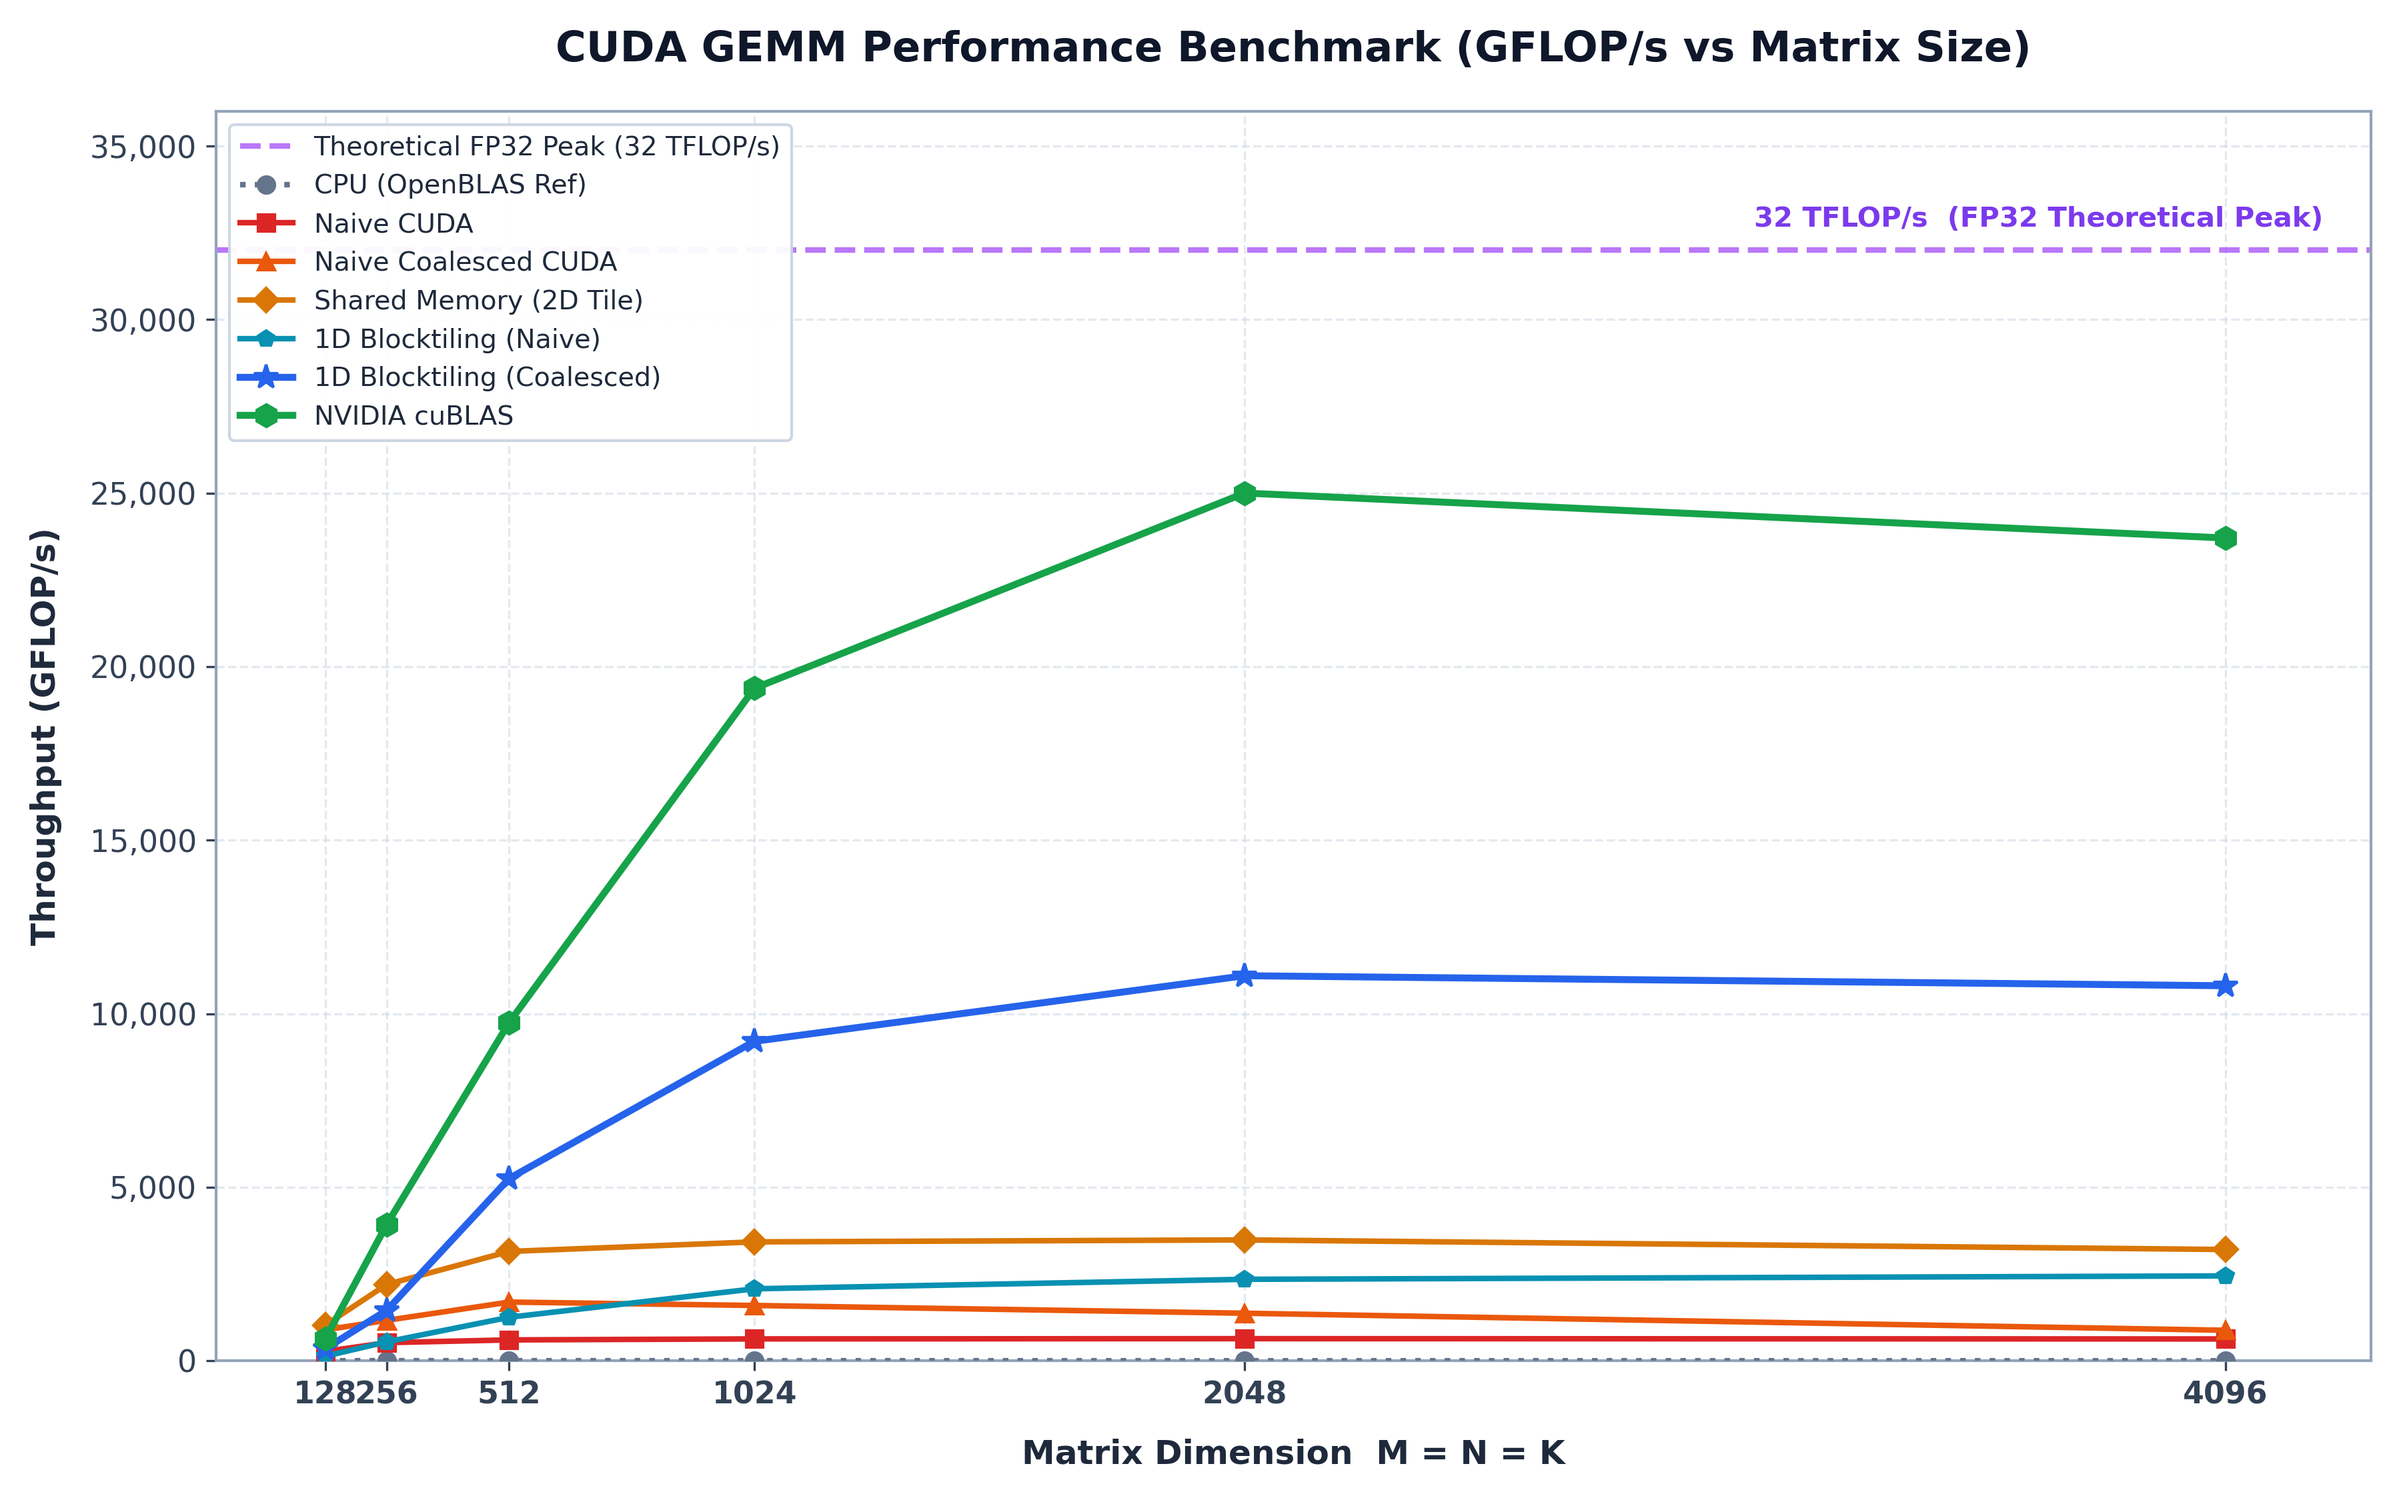
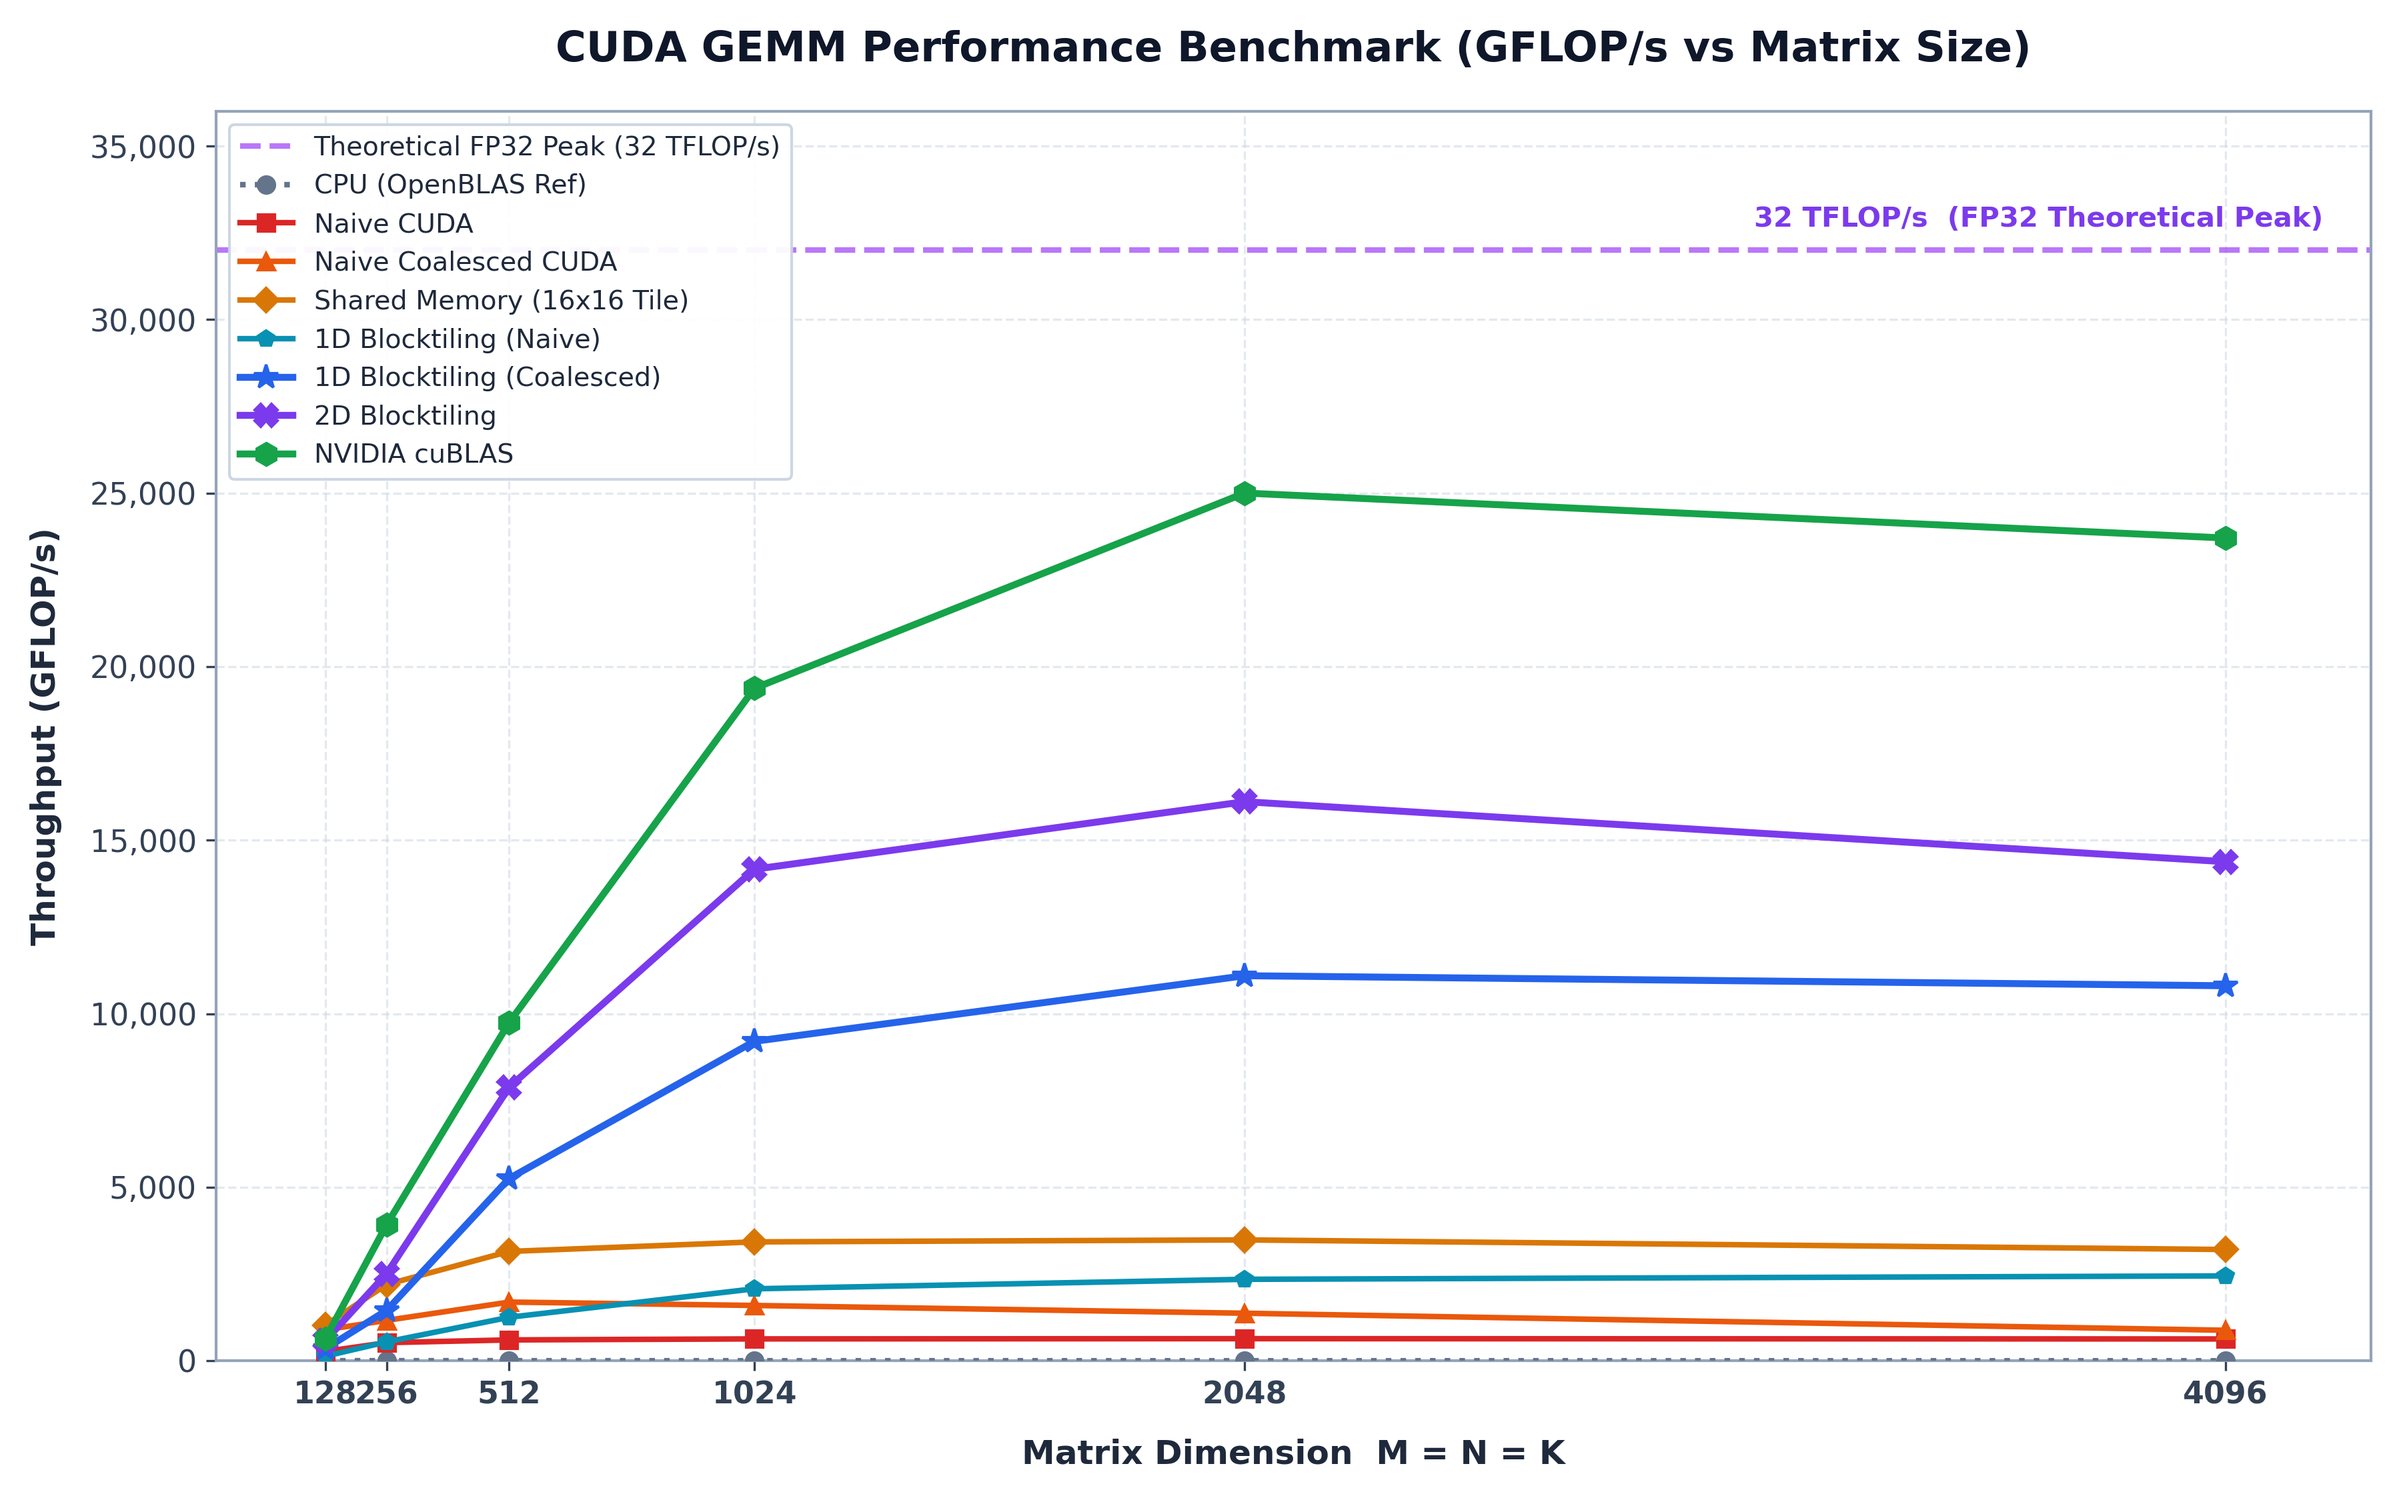
improved performance of 2d blocktiling gemm

diff --git a/README.md b/README.md
@@ -33,6 +33,7 @@ All benchmarks were recorded on the following system:
 
 - **GPU**: NVIDIA GeForce RTX 5080 Laptop / Mobile (Max-Q)
 - **VRAM**: 16 GB
+- **FP32 Theoretical Limits**: 27.6 TFLOP/s (1800 MHz) | 35.1 TFLOP/s (2285 MHz max boost)
 - **CPU**: Intel® Core™ Ultra 9 275HX (24 cores)
 - **OS & Kernel**: Ubuntu 26.04 LTS x86_64 (Linux kernel 7.0.0-29-generic)
 - **Memory**: 32 GB RAM
@@ -43,12 +44,12 @@ All benchmarks were recorded on the following system:
 
 | Matrix Size ($M \times K \times N$) | CPU<br>(OpenBLAS Ref) | Naive<br>CUDA | Naive Coalesced<br>CUDA | Shared Memory<br>(2D Tile) | 1D Blocktiling<br>(Naive) | 1D Blocktiling<br>(Coalesced) | 2D Blocktiling | NVIDIA<br>cuBLAS |
 | :--- | :---: | :---: | :---: | :---: | :---: | :---: | :---: | :---: |
-| **$128 \times 128 \times 128$** | 1.13&nbsp;GFLOP/s<br>*(3.72 ms)* | 269.97&nbsp;GFLOP/s<br>*(0.016 ms)* | 891.04&nbsp;GFLOP/s<br>*(0.0047 ms)* | **1027.21&nbsp;GFLOP/s**<br>*(0.0041 ms)* | 132.46&nbsp;GFLOP/s<br>*(0.0317 ms)* | 346.02&nbsp;GFLOP/s<br>*(0.0121 ms)* | 372.36&nbsp;GFLOP/s<br>*(0.0113 ms)* | 635.96&nbsp;GFLOP/s<br>*(0.0066 ms)* |
-| **$256 \times 256 \times 256$** | 2.92&nbsp;GFLOP/s<br>*(11.49 ms)* | 522.36&nbsp;GFLOP/s<br>*(0.064 ms)* | 1164.05&nbsp;GFLOP/s<br>*(0.0288 ms)* | **2197.35&nbsp;GFLOP/s**<br>*(0.0153 ms)* | 543.92&nbsp;GFLOP/s<br>*(0.0617 ms)* | 1451.72&nbsp;GFLOP/s<br>*(0.0231 ms)* | 1622.18&nbsp;GFLOP/s<br>*(0.0207 ms)* | **3921.38&nbsp;GFLOP/s**<br>*(0.0086 ms)* |
-| **$512 \times 512 \times 512$** | 2.34&nbsp;GFLOP/s<br>*(114.90 ms)* | 601.35&nbsp;GFLOP/s<br>*(0.446 ms)* | 1691.49&nbsp;GFLOP/s<br>*(0.1587 ms)* | 3150.30&nbsp;GFLOP/s<br>*(0.0852 ms)* | 1253.23&nbsp;GFLOP/s<br>*(0.2142 ms)* | 5253.39&nbsp;GFLOP/s<br>*(0.0511 ms)* | **6216.09&nbsp;GFLOP/s**<br>*(0.0432 ms)* | **9747.40&nbsp;GFLOP/s**<br>*(0.0275 ms)* |
-| **$1024 \times 1024 \times 1024$** | 1.36&nbsp;GFLOP/s<br>*(1582.75 ms)* | 630.45&nbsp;GFLOP/s<br>*(3.406 ms)* | 1593.81&nbsp;GFLOP/s<br>*(1.347 ms)* | 3425.77&nbsp;GFLOP/s<br>*(0.6269 ms)* | 2073.89&nbsp;GFLOP/s<br>*(1.0355 ms)* | 9204.09&nbsp;GFLOP/s<br>*(0.2333 ms)* | **11026.40&nbsp;GFLOP/s**<br>*(0.1948 ms)* | **19375.47&nbsp;GFLOP/s**<br>*(0.1108 ms)* |
-| **$2048 \times 2048 \times 2048$** | 0.73&nbsp;GFLOP/s<br>*(23483.45 ms)* | 637.28&nbsp;GFLOP/s<br>*(26.96 ms)* | 1369.91&nbsp;GFLOP/s<br>*(12.54 ms)* | 3482.72&nbsp;GFLOP/s<br>*(4.933 ms)* | 2347.49&nbsp;GFLOP/s<br>*(7.318 ms)* | 11094.55&nbsp;GFLOP/s<br>*(1.548 ms)* | **13873.39&nbsp;GFLOP/s**<br>*(1.238 ms)* | **25001.50&nbsp;GFLOP/s**<br>*(0.687 ms)* |
-| **$4096 \times 4096 \times 4096$** | 0.35&nbsp;GFLOP/s<br>*(395621.22 ms)* | 628.64&nbsp;GFLOP/s<br>*(218.63 ms)* | 878.98&nbsp;GFLOP/s<br>*(156.36 ms)* | 3206.16&nbsp;GFLOP/s<br>*(42.87 ms)* | 2445.39&nbsp;GFLOP/s<br>*(56.20 ms)* | 10805.50&nbsp;GFLOP/s<br>*(12.72 ms)* | **13277.45&nbsp;GFLOP/s**<br>*(10.35 ms)* | **23706.17&nbsp;GFLOP/s**<br>*(5.798 ms)* |
+| **$128 \times 128 \times 128$** | 1.13&nbsp;GFLOP/s<br>*(3.72 ms)* | 269.97&nbsp;GFLOP/s<br>*(0.016 ms)* | 891.04&nbsp;GFLOP/s<br>*(0.0047 ms)* | **1027.21&nbsp;GFLOP/s**<br>*(0.0041 ms)* | 132.46&nbsp;GFLOP/s<br>*(0.0317 ms)* | 346.02&nbsp;GFLOP/s<br>*(0.0121 ms)* | 580.74&nbsp;GFLOP/s<br>*(0.0072 ms)* | 635.96&nbsp;GFLOP/s<br>*(0.0066 ms)* |
+| **$256 \times 256 \times 256$** | 2.92&nbsp;GFLOP/s<br>*(11.49 ms)* | 522.36&nbsp;GFLOP/s<br>*(0.064 ms)* | 1164.05&nbsp;GFLOP/s<br>*(0.0288 ms)* | 2197.35&nbsp;GFLOP/s<br>*(0.0153 ms)* | 543.92&nbsp;GFLOP/s<br>*(0.0617 ms)* | 1451.72&nbsp;GFLOP/s<br>*(0.0231 ms)* | **2509.16&nbsp;GFLOP/s**<br>*(0.0134 ms)* | **3921.38&nbsp;GFLOP/s**<br>*(0.0086 ms)* |
+| **$512 \times 512 \times 512$** | 2.34&nbsp;GFLOP/s<br>*(114.90 ms)* | 601.35&nbsp;GFLOP/s<br>*(0.446 ms)* | 1691.49&nbsp;GFLOP/s<br>*(0.1587 ms)* | 3150.30&nbsp;GFLOP/s<br>*(0.0852 ms)* | 1253.23&nbsp;GFLOP/s<br>*(0.2142 ms)* | 5253.39&nbsp;GFLOP/s<br>*(0.0511 ms)* | **7884.77&nbsp;GFLOP/s**<br>*(0.0340 ms)* | **9747.40&nbsp;GFLOP/s**<br>*(0.0275 ms)* |
+| **$1024 \times 1024 \times 1024$** | 1.36&nbsp;GFLOP/s<br>*(1582.75 ms)* | 630.45&nbsp;GFLOP/s<br>*(3.406 ms)* | 1593.81&nbsp;GFLOP/s<br>*(1.347 ms)* | 3425.77&nbsp;GFLOP/s<br>*(0.6269 ms)* | 2073.89&nbsp;GFLOP/s<br>*(1.0355 ms)* | 9204.09&nbsp;GFLOP/s<br>*(0.2333 ms)* | **14162.17&nbsp;GFLOP/s**<br>*(0.1516 ms)* | **19375.47&nbsp;GFLOP/s**<br>*(0.1108 ms)* |
+| **$2048 \times 2048 \times 2048$** | 0.73&nbsp;GFLOP/s<br>*(23483.45 ms)* | 637.28&nbsp;GFLOP/s<br>*(26.96 ms)* | 1369.91&nbsp;GFLOP/s<br>*(12.54 ms)* | 3482.72&nbsp;GFLOP/s<br>*(4.933 ms)* | 2347.49&nbsp;GFLOP/s<br>*(7.318 ms)* | 11094.55&nbsp;GFLOP/s<br>*(1.548 ms)* | **16109.67&nbsp;GFLOP/s**<br>*(1.066 ms)* | **25001.50&nbsp;GFLOP/s**<br>*(0.687 ms)* |
+| **$4096 \times 4096 \times 4096$** | 0.35&nbsp;GFLOP/s<br>*(395621.22 ms)* | 628.64&nbsp;GFLOP/s<br>*(218.63 ms)* | 878.98&nbsp;GFLOP/s<br>*(156.36 ms)* | 3206.16&nbsp;GFLOP/s<br>*(42.87 ms)* | 2445.39&nbsp;GFLOP/s<br>*(56.20 ms)* | 10805.50&nbsp;GFLOP/s<br>*(12.72 ms)* | **14379.79&nbsp;GFLOP/s**<br>*(9.558 ms)* | **23706.17&nbsp;GFLOP/s**<br>*(5.798 ms)* |
 
 > All benchmarks report **PASS** with maximum absolute numerical error bounded under $3.5 \times 10^{-4}$ against OpenBLAS reference outputs.
 
@@ -70,14 +71,14 @@ All benchmarks were recorded on the following system:
 | **1D Block Tiling (Naive)** | 7.318 ms | 2347.49 GFLOP/s | 9.39% |
 | **Shared Memory (Smem) Tiled** | 4.933 ms | 3482.72 GFLOP/s | 13.93% |
 | **1D Block Tiling (Coalesced)** | 1.548 ms | 11094.55 GFLOP/s | 44.38% |
-| **2D Block Tiling** | 1.238 ms | 13873.39 GFLOP/s | **55.49%** |
+| **2D Block Tiling** | 1.066 ms | 16109.67 GFLOP/s | **64.43%** |
 | **NVIDIA cuBLAS** | 0.687 ms | 25001.50 GFLOP/s | **100.00%** |
 
 1. **CPU vs GPU Baseline**: Even the naive uncoalesced CUDA kernel achieves a **~870x speedup** over single-threaded C++ GEMM at $2048 \times 2048$ matrix size due to massive parallel execution across GPU cores.
 2. **Coalesced Memory Access**: Reordering memory indexing to align contiguous thread accesses within a warp yields a **~2.1x speedup** over naive indexing at $2048 \times 2048$, resolving unaligned memory transactions.
 3. **Shared Memory Tiling (2D Tile)**: By loading $16 \times 16$ matrix tiles into high-speed `__shared__` memory and synchronizing threads (`__syncthreads()`), global memory traffic is reduced by a factor of 16. This increases throughput from **1369.91 GFLOP/s** (Coalesced) to **3482.72 GFLOP/s** (Shared Memory)—a **2.54x improvement**.
 4. **1D Block Tiling & Register Reuse**: Assigning multiple output elements ($TM = 16$) to each thread's register space significantly improves arithmetic intensity. When paired with coalesced global memory loads (`1d_blocktiling_coalescing.cu`), performance reaches **11094.55 GFLOP/s** (11.1 TFLOP/s)—a **3.19x speedup** over 2D Shared Memory Tiling and reaching **44.38% of cuBLAS performance**. Without coalesced loading (`1d_blocktiling_naive.cu`), unaligned memory accesses constrain performance to **2347.49 GFLOP/s**, highlighting that aligned memory transfers remain critical even with register caching.
-5. **2D Block Tiling (2D Thread/Register Tiling)**: Extending register caching into two dimensions ($4 \times 4$ per-thread tile) alongside 2D shared memory caching (`src/2d_blocktiling.cu`) reuses cached values across both rows and columns. This significantly increases arithmetic intensity and reduces total memory access overhead, boosting performance to **13873.39 GFLOP/s** (13.87 TFLOP/s) at $2048 \times 2048$—a **1.25x speedup** over 1D Coalesced Blocktiling and achieving **55.49% of cuBLAS performance**.
+5. **2D Block Tiling (2D Thread/Register Tiling)**: Extending register caching into two dimensions ($4 \times 4$ per-thread tile) alongside 2D shared memory caching (`src/2d_blocktiling.cu`) reuses cached values across both rows and columns. This significantly increases arithmetic intensity and reduces total memory access overhead, boosting performance to **16109.67 GFLOP/s** (16.11 TFLOP/s) at $2048 \times 2048$—a **1.45x speedup** over 1D Coalesced Blocktiling and achieving **64.43% of cuBLAS performance**.
 6. **cuBLAS Peak Performance**: cuBLAS reaches **25 TFLOP/s** throughput at $2048 \times 2048$. It achieves this level by leveraging hardware-level features such as 2D thread tiling (register tiling in both dimensions), vectorized memory operations (`float4` / `LDG.128`), warp shuffle instructions, double buffering/pipelining, and hardware Tensor Cores.
 
 ---
